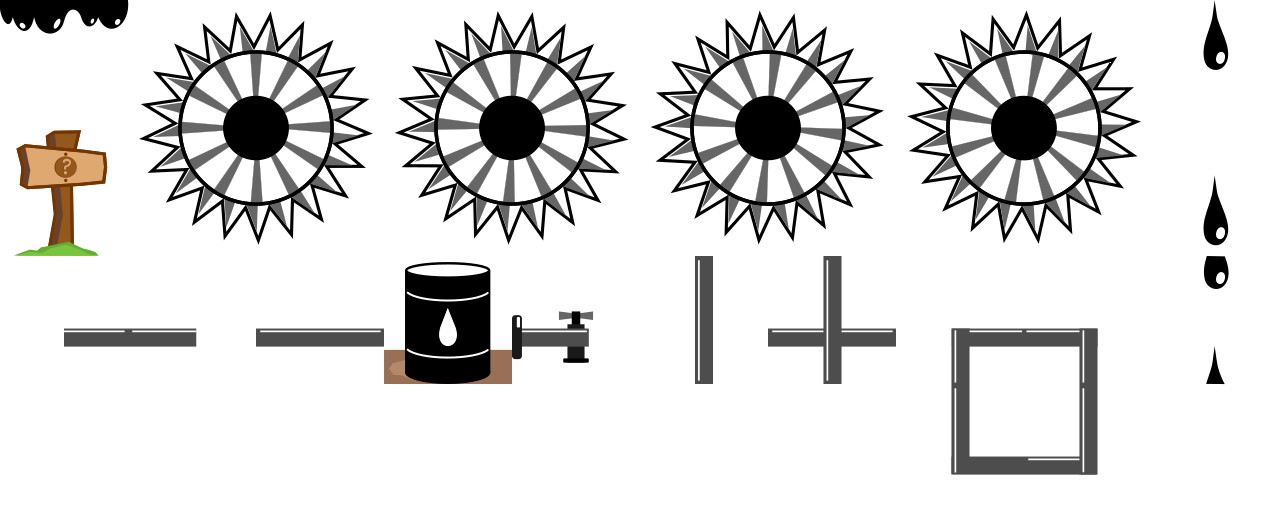
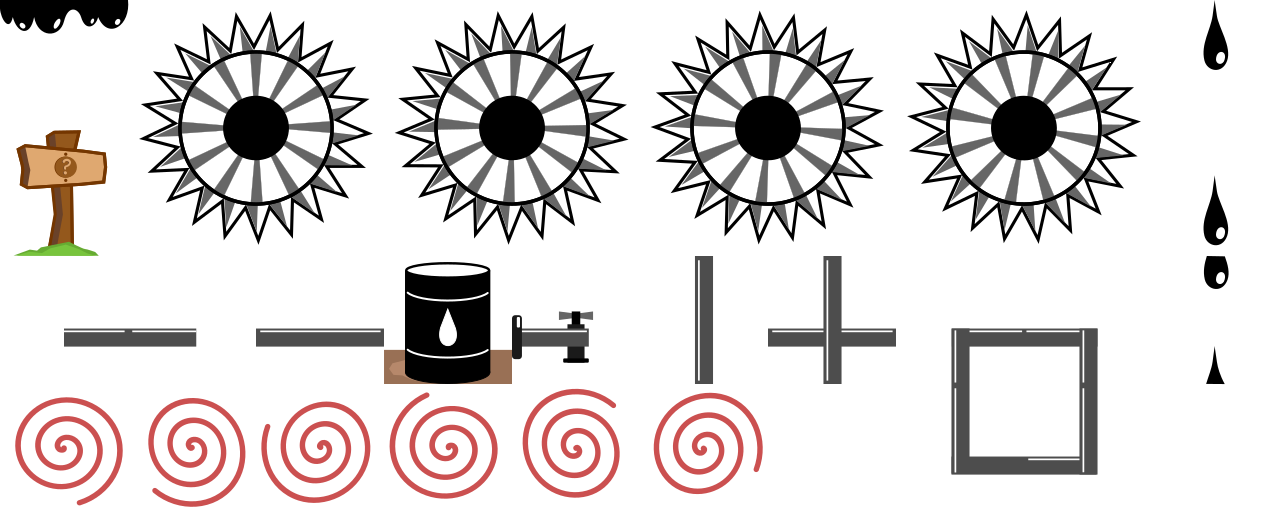
added warp mechanics

Changed region(s): [[0.0, 0.75, 0.5938, 1.0]]

diff --git a/android/assets/levels/tiles_oil_128x128.tsx b/android/assets/levels/tiles_oil_128x128.tsx
@@ -1,6 +1,6 @@
 <?xml version="1.0" encoding="UTF-8"?>
-<tileset name="tiles_oil_128x128" tilewidth="128" tileheight="128" tilecount="30" columns="10">
- <image source="tiles_oil_128x128.png" width="1280" height="384"/>
+<tileset name="tiles_oil_128x128" tilewidth="128" tileheight="128" tilecount="40" columns="10">
+ <image source="tiles_oil_128x128.png" width="1280" height="512"/>
  <tile id="1">
   <animation>
    <frame tileid="1" duration="100"/>
@@ -38,6 +38,16 @@
    <frame tileid="14" duration="100"/>
    <frame tileid="16" duration="100"/>
    <frame tileid="18" duration="100"/>
+  </animation>
+ </tile>
+ <tile id="30">
+  <animation>
+   <frame tileid="30" duration="100"/>
+   <frame tileid="31" duration="100"/>
+   <frame tileid="32" duration="100"/>
+   <frame tileid="33" duration="100"/>
+   <frame tileid="34" duration="100"/>
+   <frame tileid="35" duration="100"/>
   </animation>
  </tile>
 </tileset>

diff --git a/core/src/com/gstrzal/insects/tools/B2WorldCreator.java b/core/src/com/gstrzal/insects/tools/B2WorldCreator.java
@@ -8,6 +8,7 @@ import com.badlogic.gdx.maps.tiled.TiledMap;
 import com.badlogic.gdx.math.Ellipse;
 import com.badlogic.gdx.math.Polygon;
 import com.badlogic.gdx.math.Rectangle;
+import com.badlogic.gdx.math.Vector2;
 import com.badlogic.gdx.physics.box2d.Body;
 import com.badlogic.gdx.physics.box2d.BodyDef;
 import com.badlogic.gdx.physics.box2d.CircleShape;
@@ -34,6 +35,8 @@ public class B2WorldCreator {
     public LevelSwitch levelSwitch;
     public LevelEndBlock levelEndBlock;
     private final static float circleRadius = 32f;
+    public Vector2 warpAposition = new Vector2(0,0);
+    public Vector2 warpBposition = new Vector2(0,0);
 
     public B2WorldCreator(World world, TiledMap map, Insects insects){
         flowers = new Array<Flower>();
@@ -75,49 +78,6 @@ public class B2WorldCreator {
             passBlockFdef.filter.maskBits = Insects.INSECT_BIT | Insects.BASE_BIT;
             passBlockFdef.friction = 0;
             passBlockBody.createFixture(passBlockFdef).setUserData(Constants.MAP_PASS_BLOCKS);
-        }
-
-
-        //Flowers
-        FixtureDef flowerFdef = new FixtureDef();
-        CircleShape flowerCircleShape =new CircleShape();
-        BodyDef flowerBdef = new BodyDef();
-        if(map.getLayers().get(Constants.MAP_FLOWERS) != null)
-        for (MapObject object : map.getLayers().get(Constants.MAP_FLOWERS).getObjects()) {
-            Ellipse ellipse = ((EllipseMapObject) object).getEllipse();
-            flowerBdef.type = BodyDef.BodyType.StaticBody;
-            flowerBdef.position.set(ellipse.x / Insects.PPM + (ellipse.width / 2) / Insects.PPM,
-                    ellipse.y/ Insects.PPM + (ellipse.height / 2) / Insects.PPM);
-            flowerCircleShape.setRadius(circleRadius/Insects.PPM);
-            flowerFdef.shape = flowerCircleShape;
-            flowerFdef.isSensor = true;
-            flowerFdef.filter.categoryBits = Insects.FLOWER_BIT;
-            flowerFdef.filter.maskBits = Insects.INSECT_BIT ;
-            Body flowerBody = world.createBody(flowerBdef);
-            flowerBody.createFixture(flowerFdef).setUserData(Constants.MAP_FLOWERS);
-            Flower f = new Flower(flowerBody, insects);
-            flowerBody.setUserData(f);
-            flowers.add(f);
-
-        }
-
-        //Level End
-        FixtureDef levelEndFdef = new FixtureDef();
-        CircleShape levelEndCircularShape =new CircleShape();
-        BodyDef levelEndBdef = new BodyDef();
-        if(map.getLayers().get(Constants.MAP_END) != null)
-        for (MapObject object : map.getLayers().get(Constants.MAP_END).getObjects()) {
-            Ellipse ellipse = ((EllipseMapObject) object).getEllipse();
-            levelEndBdef.type = BodyDef.BodyType.StaticBody;
-            levelEndBdef.position.set(ellipse.x / Insects.PPM + (ellipse.width / 2) / Insects.PPM,
-                    ellipse.y/ Insects.PPM + (ellipse.height / 2) / Insects.PPM);
-            levelEndCircularShape.setRadius(circleRadius/Insects.PPM);
-            levelEndFdef.shape = levelEndCircularShape;
-            levelEndFdef.isSensor = true;
-            levelEndFdef.filter.categoryBits = Insects.LEVEL_END_BIT;
-            levelEndFdef.filter.maskBits = Insects.INSECT_BIT;
-            Body endBody = world.createBody(levelEndBdef);
-            endBody.createFixture(levelEndFdef).setUserData(Constants.MAP_END);
         }
 
         //Damage
@@ -235,6 +195,63 @@ public class B2WorldCreator {
                 levelEndBlock = new LevelEndBlock(levelEndBlockBody, insects);
                 levelEndBlockBody.setUserData(levelEndBlock);
 
+            }
+
+        //Flowers
+        FixtureDef flowerFdef = new FixtureDef();
+        CircleShape flowerCircleShape =new CircleShape();
+        BodyDef flowerBdef = new BodyDef();
+        if(map.getLayers().get(Constants.MAP_FLOWERS) != null)
+            for (MapObject object : map.getLayers().get(Constants.MAP_FLOWERS).getObjects()) {
+                Ellipse ellipse = ((EllipseMapObject) object).getEllipse();
+                flowerBdef.type = BodyDef.BodyType.StaticBody;
+                flowerBdef.position.set(ellipse.x / Insects.PPM + (ellipse.width / 2) / Insects.PPM,
+                        ellipse.y/ Insects.PPM + (ellipse.height / 2) / Insects.PPM);
+                flowerCircleShape.setRadius(circleRadius/Insects.PPM);
+                flowerFdef.shape = flowerCircleShape;
+                flowerFdef.isSensor = true;
+                flowerFdef.filter.categoryBits = Insects.FLOWER_BIT;
+                flowerFdef.filter.maskBits = Insects.INSECT_BIT ;
+                Body flowerBody = world.createBody(flowerBdef);
+                flowerBody.createFixture(flowerFdef).setUserData(Constants.MAP_FLOWERS);
+                Flower f = new Flower(flowerBody, insects);
+                flowerBody.setUserData(f);
+                flowers.add(f);
+
+            }
+
+        //Level End
+        createCircularSensorShapeFromMap(world, map, Constants.MAP_END);
+
+        //Warp A End
+        createCircularSensorShapeFromMap(world, map, Constants.MAP_WARP_A);
+
+        //Warp B End
+        createCircularSensorShapeFromMap(world, map, Constants.MAP_WARP_B);
+    }
+    private void createCircularSensorShapeFromMap(World world, TiledMap map, String mapLayer){
+        FixtureDef fdef = new FixtureDef();
+        CircleShape circleShape =new CircleShape();
+        BodyDef bodyDef = new BodyDef();
+        if(map.getLayers().get(mapLayer) != null)
+            for (MapObject object : map.getLayers().get(mapLayer).getObjects()) {
+                Ellipse ellipse = ((EllipseMapObject) object).getEllipse();
+                bodyDef.type = BodyDef.BodyType.StaticBody;
+                bodyDef.position.set(ellipse.x / Insects.PPM + (ellipse.width / 2) / Insects.PPM,
+                        ellipse.y/ Insects.PPM + (ellipse.height / 2) / Insects.PPM);
+                circleShape.setRadius(circleRadius/Insects.PPM);
+                fdef.shape = circleShape;
+                fdef.isSensor = true;
+                fdef.filter.categoryBits = Insects.LEVEL_END_BIT;
+                fdef.filter.maskBits = Insects.INSECT_BIT;
+                Body body = world.createBody(bodyDef);
+                body.createFixture(fdef).setUserData(mapLayer);
+
+                if(mapLayer == Constants.MAP_WARP_A){
+                    warpAposition = bodyDef.position;
+                }else if(mapLayer == Constants.MAP_WARP_B){
+                    warpBposition = bodyDef.position;
+                }
             }
     }
 }

diff --git a/core/src/com/gstrzal/insects/tools/WorldContactListener.java b/core/src/com/gstrzal/insects/tools/WorldContactListener.java
@@ -23,6 +23,10 @@ public class WorldContactListener implements ContactListener {
     private boolean levelFinished = false;
     private boolean gameOver = false;
     private boolean switchOn = false;
+    private boolean warpA = false;
+    private boolean warpB = false;
+    private boolean justWarpedA = false;
+    private boolean justWarpedB = false;
 
 
     public WorldContactListener() {
@@ -44,6 +48,10 @@ public class WorldContactListener implements ContactListener {
         checkCharacterDamageContact(contact);
 
         checkCharacterSwitchContact(contact);
+
+        checkCharacterWarpAContact(contact);
+
+        checkCharacterWarpBContact(contact);
 
 
         //For ant character - size check
@@ -92,6 +100,10 @@ public class WorldContactListener implements ContactListener {
                 }
             });
         }
+
+        checkCharacterWarpAEndContact(contact);
+
+        checkCharacterWarpBEndContact(contact);
     }
 
     @Override
@@ -191,6 +203,45 @@ public class WorldContactListener implements ContactListener {
         //Besouro
         if(isContact(contact, Constants.BESOURO_BODY, Constants.MAP_END)){
             setLevelFinished(true);
+        }
+    }
+
+    private void checkCharacterWarpAContact(Contact contact) {
+
+        if(!justWarpedB) {
+            if (isContact(contact, Constants.INSECT_BODY, Constants.MAP_WARP_A)
+                || isContact(contact, Constants.ANT_BODY, Constants.MAP_WARP_A)
+                || isContact(contact, Constants.BESOURO_BODY, Constants.MAP_WARP_A)) {
+                setWarpA(true);
+                setJustWarpedA(true);
+            }
+        }
+    }
+    private void checkCharacterWarpAEndContact(Contact contact) {
+        if (isContact(contact, Constants.INSECT_BODY, Constants.MAP_WARP_A)
+                || isContact(contact, Constants.ANT_BODY, Constants.MAP_WARP_A)
+                || isContact(contact, Constants.BESOURO_BODY, Constants.MAP_WARP_A)) {
+            setJustWarpedB(false);
+        }
+    }
+
+    private void checkCharacterWarpBContact(Contact contact) {
+
+        if(!justWarpedA) {
+            if (isContact(contact, Constants.INSECT_BODY, Constants.MAP_WARP_B)
+                    || isContact(contact, Constants.ANT_BODY, Constants.MAP_WARP_B)
+                    || isContact(contact, Constants.BESOURO_BODY, Constants.MAP_WARP_B)) {
+                setWarpB(true);
+                setJustWarpedB(true);
+            }
+        }
+    }
+
+    private void checkCharacterWarpBEndContact(Contact contact) {
+        if (isContact(contact, Constants.INSECT_BODY, Constants.MAP_WARP_B)
+                || isContact(contact, Constants.ANT_BODY, Constants.MAP_WARP_B)
+                || isContact(contact, Constants.BESOURO_BODY, Constants.MAP_WARP_B)) {
+            setJustWarpedA(false);
         }
     }
 
@@ -297,5 +348,38 @@ public class WorldContactListener implements ContactListener {
 
     public boolean isSwitchOn() {
         return switchOn;
+    }
+
+
+    public void setWarpA(boolean warpA) {
+        this.warpA = warpA;
+    }
+
+    public void setWarpB(boolean warpB) {
+        this.warpB = warpB;
+    }
+
+    public boolean isWarpA() {
+        return warpA;
+    }
+
+    public boolean isWarpB() {
+        return warpB;
+    }
+
+    public boolean isJustWarpedA() {
+        return justWarpedA;
+    }
+
+    public void setJustWarpedA(boolean justWarpedA) {
+        this.justWarpedA = justWarpedA;
+    }
+
+    public boolean isJustWarpedB() {
+        return justWarpedB;
+    }
+
+    public void setJustWarpedB(boolean justWarpedB) {
+        this.justWarpedB = justWarpedB;
     }
 }

diff --git a/core/src/com/gstrzal/insects/screens/GameScreen.java b/core/src/com/gstrzal/insects/screens/GameScreen.java
@@ -265,6 +265,7 @@ public class GameScreen implements Screen{
                 checkLevelCompleted();
                 checkGameOver();
                 checkSwitchOn();
+                checkWarp();
             }
             break;
             case GAME_OVER: {
@@ -359,6 +360,17 @@ public class GameScreen implements Screen{
             levelStopTime = System.currentTimeMillis();
         }
 
+    }
+
+    private void checkWarp() {
+        if (worldContactListener.isWarpA()) {
+            worldContactListener.setWarpA(false);
+            insectPlayer.b2body.setTransform(b2World.warpBposition, insectPlayer.b2body.getAngle());
+        }
+        if (worldContactListener.isWarpB()) {
+            worldContactListener.setWarpB(false);
+            insectPlayer.b2body.setTransform(b2World.warpAposition, insectPlayer.b2body.getAngle());
+        }
     }
     private void waitForRestart() {
         if(((System.currentTimeMillis() - levelStopTime) / 100) > 5)

diff --git a/core/src/com/gstrzal/insects/config/Constants.java b/core/src/com/gstrzal/insects/config/Constants.java
@@ -82,6 +82,7 @@ public class Constants {
     public static final String LEVEL_12 = "levels/ins_level_12.tmx";
     public static final String LEVEL_13 = "levels/ins_level_13.tmx";
     public static final String LEVEL_14 = "levels/ins_level_14.tmx";
+    public static final String LEVEL_15 = "levels/ins_level_15.tmx";
     public static final String LEVEL = "levels/ins_level_";
     public static final String TMX = ".tmx";
 
@@ -95,6 +96,8 @@ public class Constants {
     public static final String MAP_SLOPE = "slope";
     public static final String MAP_SWITCH = "switch";
     public static final String MAP_LEVEL_END_BLOCK = "levelEndBlock";
+    public static final String MAP_WARP_A = "warp_a";
+    public static final String MAP_WARP_B = "warp_b";
 
     //Object Descriptions
     public static final String INSECT_BODY = "InsectBody";

diff --git a/core/src/com/gstrzal/insects/screens/LoadingScreen.java b/core/src/com/gstrzal/insects/screens/LoadingScreen.java
@@ -93,6 +93,7 @@ public class LoadingScreen extends ScreenAdapter{
         assetManager.load(Constants.LEVEL_12, TiledMap.class);
         assetManager.load(Constants.LEVEL_13, TiledMap.class);
         assetManager.load(Constants.LEVEL_14, TiledMap.class);
+        assetManager.load(Constants.LEVEL_15, TiledMap.class);
         assetManager.load(Constants.JOANINHA, Texture.class);
         assetManager.load(Constants.BESOURO, Texture.class);
         assetManager.load(Constants.ANT, Texture.class);

diff --git a/core/src/com/gstrzal/insects/config/GameConfig.java b/core/src/com/gstrzal/insects/config/GameConfig.java
@@ -18,7 +18,7 @@ public class GameConfig {
     public static final float SCREEN_WIDTH_PX = 3200f; //pixels
     public static final float SCREEN_HEIGHT_PX = 1920f; //pixels
 
-    public static final int GAME_MAX_LEVELS = 14; //
+    public static final int GAME_MAX_LEVELS = 15; //
 
     public static final String GAME_VERSION = "V.0.0.2.3";
 
